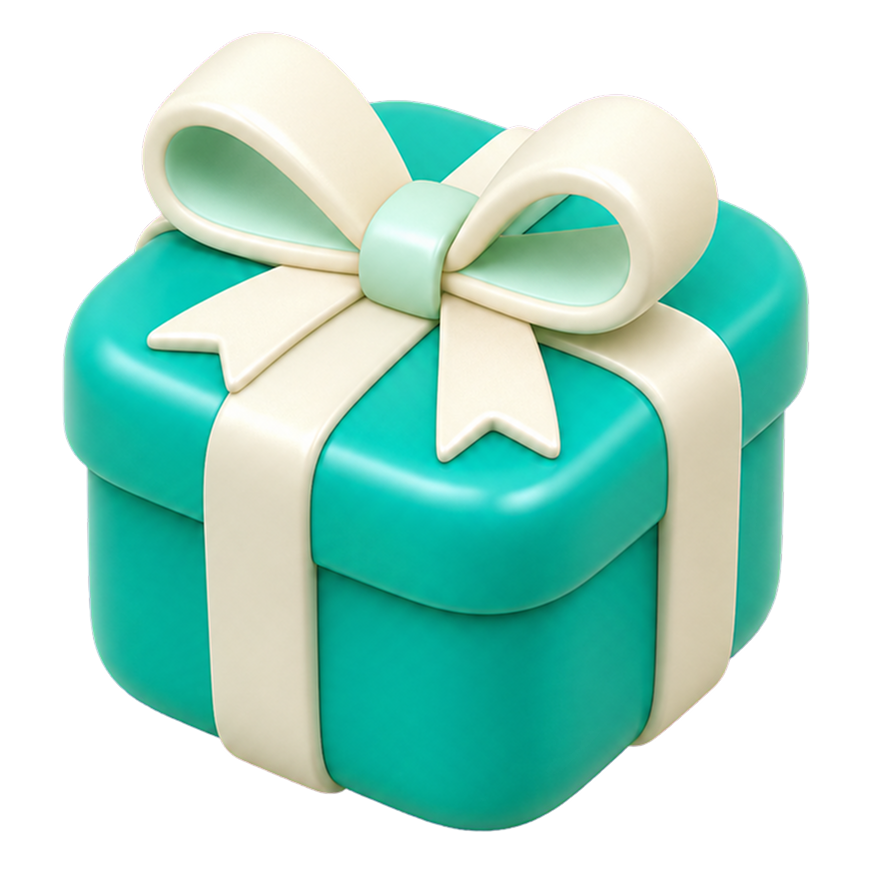
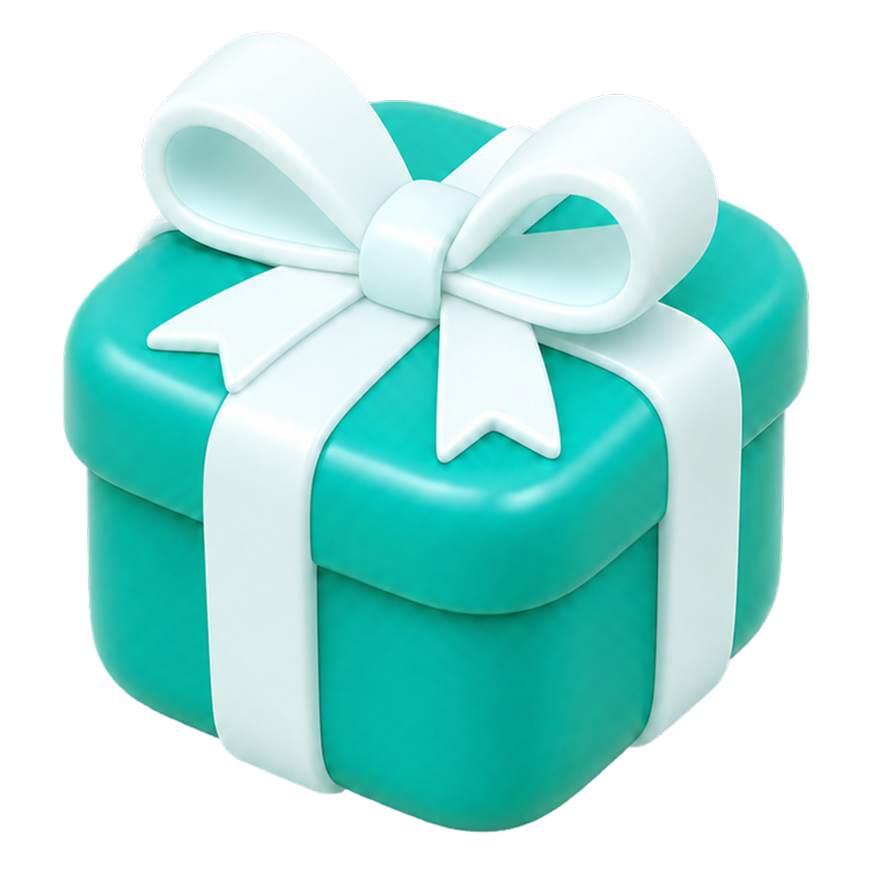
푸시 2번씬(ps3) 요금비교 애니 재구성: seqPcx JS 시퀀서로 기능을 640ms 간격 칼각 팝 체크, 체크마다 경쟁 CRM 요금 계단 상승+숫자 팝, 완료 시 알파푸시 39,000 그대로 강조

diff --git a/onboarding-single-view-v5.html b/onboarding-single-view-v5.html
@@ -15192,60 +15192,36 @@
       background: var(--dc);
     }
 
-    .pc-scene.on .pcx-f:nth-child(2) {
-      animation: pcxFeat .34s ease .5s both;
+    /* seqPcx(JS)가 기능을 하나씩 .ckd 처리 — 칼각 팝 체크 + 한 칸씩 또렷하게 */
+    .pcx-f {
+      transition: opacity .28s ease;
     }
 
-    .pc-scene.on .pcx-f:nth-child(3) {
-      animation: pcxFeat .34s ease .7s both;
+    .pcx-f.ckd {
+      opacity: 1;
     }
 
-    .pc-scene.on .pcx-f:nth-child(4) {
-      animation: pcxFeat .34s ease .9s both;
+    .pcx-ck {
+      transition: border-color .18s ease, background .18s ease;
     }
 
-    .pc-scene.on .pcx-f:nth-child(5) {
-      animation: pcxFeat .34s ease 1.1s both;
+    .pcx-f.ckd .pcx-ck {
+      border-color: var(--dc);
+      background: var(--dc);
+      animation: pcxCkPop .34s cubic-bezier(.3, 1.8, .4, 1);
     }
 
-    .pc-scene.on .pcx-f:nth-child(6) {
-      animation: pcxFeat .34s ease 1.3s both;
-    }
-
-    .pc-scene.on .pcx-f:nth-child(2) .pcx-ck {
-      animation: pcxCk .34s ease .5s both;
-    }
-
-    .pc-scene.on .pcx-f:nth-child(3) .pcx-ck {
-      animation: pcxCk .34s ease .7s both;
-    }
-
-    .pc-scene.on .pcx-f:nth-child(4) .pcx-ck {
-      animation: pcxCk .34s ease .9s both;
-    }
-
-    .pc-scene.on .pcx-f:nth-child(5) .pcx-ck {
-      animation: pcxCk .34s ease 1.1s both;
-    }
-
-    .pc-scene.on .pcx-f:nth-child(6) .pcx-ck {
-      animation: pcxCk .34s ease 1.3s both;
-    }
-
-    @keyframes pcxFeat {
-      from {
-        opacity: .45;
+    @keyframes pcxCkPop {
+      0% {
+        transform: scale(1);
       }
 
-      to {
-        opacity: 1;
+      45% {
+        transform: scale(1.3);
       }
-    }
 
-    @keyframes pcxCk {
-      to {
-        border-color: var(--dc);
-        background: var(--dc);
+      100% {
+        transform: scale(1);
       }
     }
 
@@ -15324,42 +15300,67 @@
     .pcx-bar.o {
       height: 22%;
       background: linear-gradient(180deg, #FB8C9A, #E5344A);
+      /* seqPcx가 height를 한 칸씩 올림 — 칼각하게 훅 오르는 트랜지션 */
+      transition: height .34s cubic-bezier(.2, .9, .3, 1);
     }
 
-    .pc-scene.on .pcx-bar.o {
-      animation: pcxBarO 1.1s cubic-bezier(.4, 0, .3, 1) .3s forwards;
+    /* 체크할 때마다 경쟁 요금 숫자가 튀어오름 — 상승이 눈에 확 들어오게 */
+    .pcx-bar.o.bump .pcx-bval {
+      animation: pcxBump .42s cubic-bezier(.3, 1.6, .4, 1);
     }
 
-    @keyframes pcxBarO {
-
-      0%,
-      12% {
-        height: 22%;
+    @keyframes pcxBump {
+      0% {
+        transform: translateX(-50%) scale(1);
       }
 
-      18%,
-      28% {
-        height: 36%;
+      40% {
+        transform: translateX(-50%) scale(1.22);
       }
 
-      34%,
-      44% {
-        height: 52%;
-      }
-
-      50%,
-      60% {
-        height: 68%;
-      }
-
-      66%,
-      76% {
-        height: 84%;
-      }
-
-      82%,
       100% {
-        height: 100%;
+        transform: translateX(-50%) scale(1);
+      }
+    }
+
+    /* 완료 → 알파푸시 39,000 그대로 강조 (바 반짝 + 숫자 팝) */
+    .pc-scene.pcx-done .pcx-bar.u {
+      animation: pcxUEmph 1s cubic-bezier(.3, 1.2, .4, 1);
+    }
+
+    @keyframes pcxUEmph {
+      0% {
+        box-shadow: 0 0 0 0 color-mix(in srgb, var(--dc) 45%, transparent);
+      }
+
+      40% {
+        box-shadow: 0 0 0 12px color-mix(in srgb, var(--dc) 0%, transparent);
+      }
+
+      100% {
+        box-shadow: 0 0 0 0 transparent;
+      }
+    }
+
+    .pc-scene.pcx-done .pcx-bar.u .pcx-bval {
+      animation: pcxBump .5s cubic-bezier(.3, 1.6, .4, 1);
+    }
+
+    .pc-scene.pcx-done .pcx-bar.u .pcx-bval em {
+      animation: pcxTagPop .5s cubic-bezier(.3, 1.7, .4, 1) .1s both;
+    }
+
+    @keyframes pcxTagPop {
+      0% {
+        transform: scale(1);
+      }
+
+      45% {
+        transform: scale(1.32);
+      }
+
+      100% {
+        transform: scale(1);
       }
     }
 
@@ -20689,7 +20690,7 @@
           <div class="pcx-chart">
             <div class="pcx-plot">
               <div class="pcx-col">
-                <div class="pcx-btrack"><div class="pcx-bar o"><span class="pcx-bval">월 <b class="cnt" data-from="90000" data-to="1000000" data-fmt="num" data-delay="300">90,000</b>원<em class="up">↑</em></span></div></div>
+                <div class="pcx-btrack"><div class="pcx-bar o"><span class="pcx-bval">월 <b class="pcx-oval">90,000</b>원<em class="up">↑</em></span></div></div>
                 <div class="pcx-name o"><b>경쟁 CRM</b><span>시작가 90,000 → MAU 400,000 → 100만+</span></div>
               </div>
               <div class="pcx-col">
@@ -21583,6 +21584,7 @@
           sc.classList.add('on');
           runCounts(stage);
           if (sc.classList.contains('ps-wall')) seqWall(sc);
+          if (sc.classList.contains('pc-scene')) seqPcx(sc);
         });
       });
       // '레시피 시작'은 유저가 직접 클릭 (자동 실행 없음)
@@ -21594,6 +21596,46 @@
       if (stage.querySelector('.cv1-sc')) initCvDetail(stage);
       const _dp = $('dtPrev'); if (_dp) _dp.disabled = (i === 0);
       const _dn = $('dtNext'); if (_dn) _dn.textContent = (i === d.feats.length - 1) ? '기능 다 봤어요 ✓' : '다음 기능 →';
+    }
+
+    /* ps3(요금 비교) — 기능을 한 칸씩 또렷하게 켜고, 켤 때마다 경쟁 CRM 요금이 계단식으로 훅 상승 · 알파푸시는 39,000 그대로 */
+    function seqPcx(sc) {
+      const feats = [...sc.querySelectorAll('.pcx-f')];
+      const oBar = sc.querySelector('.pcx-bar.o');
+      const oVal = sc.querySelector('.pcx-oval');
+      if (!feats.length || !oBar) return;
+      // 시작가 90,000(기능 1개) → 기능 켤 때마다 계단식 상승 → 전 기능 100만+
+      const steps = [
+        { h: 22, v: 90000 },
+        { h: 37, v: 150000 },
+        { h: 53, v: 260000 },
+        { h: 69, v: 430000 },
+        { h: 85, v: 680000 },
+        { h: 100, v: 1000000 },
+      ];
+      const fmt = n => n.toLocaleString('en-US');
+      feats[0].classList.add('ckd');
+      oBar.style.height = steps[0].h + '%';
+      if (oVal) oVal.textContent = fmt(steps[0].v);
+      let i = 1;
+      const GAP = 640; // 느리고 딱딱 끊기는 스텝
+      function step() {
+        if (!sc.isConnected) return;
+        if (i >= feats.length) {
+          sc.classList.add('pcx-done'); // 알파푸시 39,000 그대로 강조
+          return;
+        }
+        feats[i].classList.add('ckd');
+        const s = steps[i];
+        oBar.style.height = s.h + '%';
+        if (oVal) oVal.textContent = fmt(s.v);
+        oBar.classList.remove('bump');
+        void oBar.offsetWidth;
+        oBar.classList.add('bump');
+        i++;
+        setTimeout(step, GAP);
+      }
+      setTimeout(step, 560);
     }
 
     /* ps1(전환 장치 벽) — 카드를 하나씩 순차 재생: 한 카드의 애니메이션이 끝나야 다음 카드 시작 */
